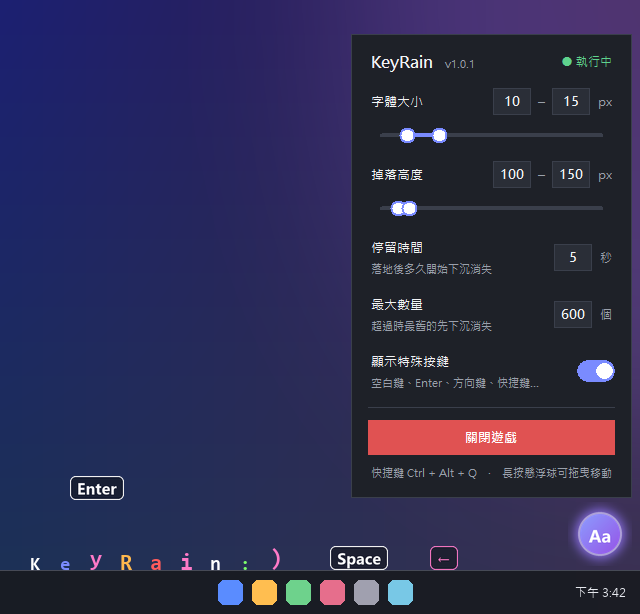
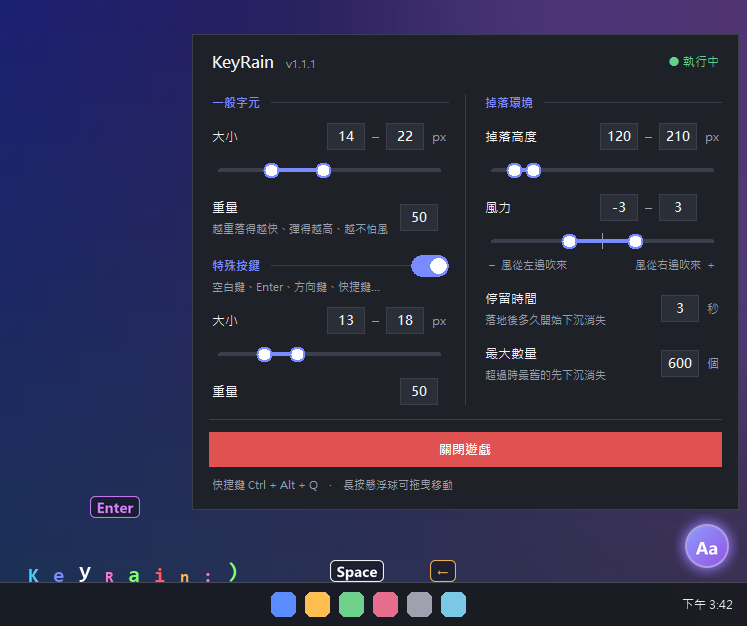
Update demo GIF and panel screenshot for v1.1.1

diff --git a/README.md b/README.md
@@ -22,7 +22,7 @@ Windows 桌面小遊戲：你在鍵盤上打的每個字，都會從工具列上
   - **一般字元**：大小（區間）、重量
   - **特殊按鍵**：要不要顯示、大小（區間）、重量
   - **掉落環境**：掉落高度（區間，最高可到螢幕頂端）、風力（-10～10 區間）、落地後停留多久才下沉、畫面上的最大數量
-- **重量**：越輕落得越慢、落地反彈越小、越容易被風吹偏；同一批字裡，尺寸越大的越重。
+- **重量**：越輕落得越慢、落地反彈越小、越容易被風吹偏；同一批字裡，尺寸越大的越重。重量沒有上限，想讓字落得快一點，可以調到 30～50 以上。
 - **風力**：負值是風從左邊吹來、正值是從右邊吹來；設成區間時，每個字會各自感受到在區間內隨機變化的風。
 - 結束遊戲：面板裡的「關閉遊戲」，或按 `Ctrl + Alt + Q`。
 
